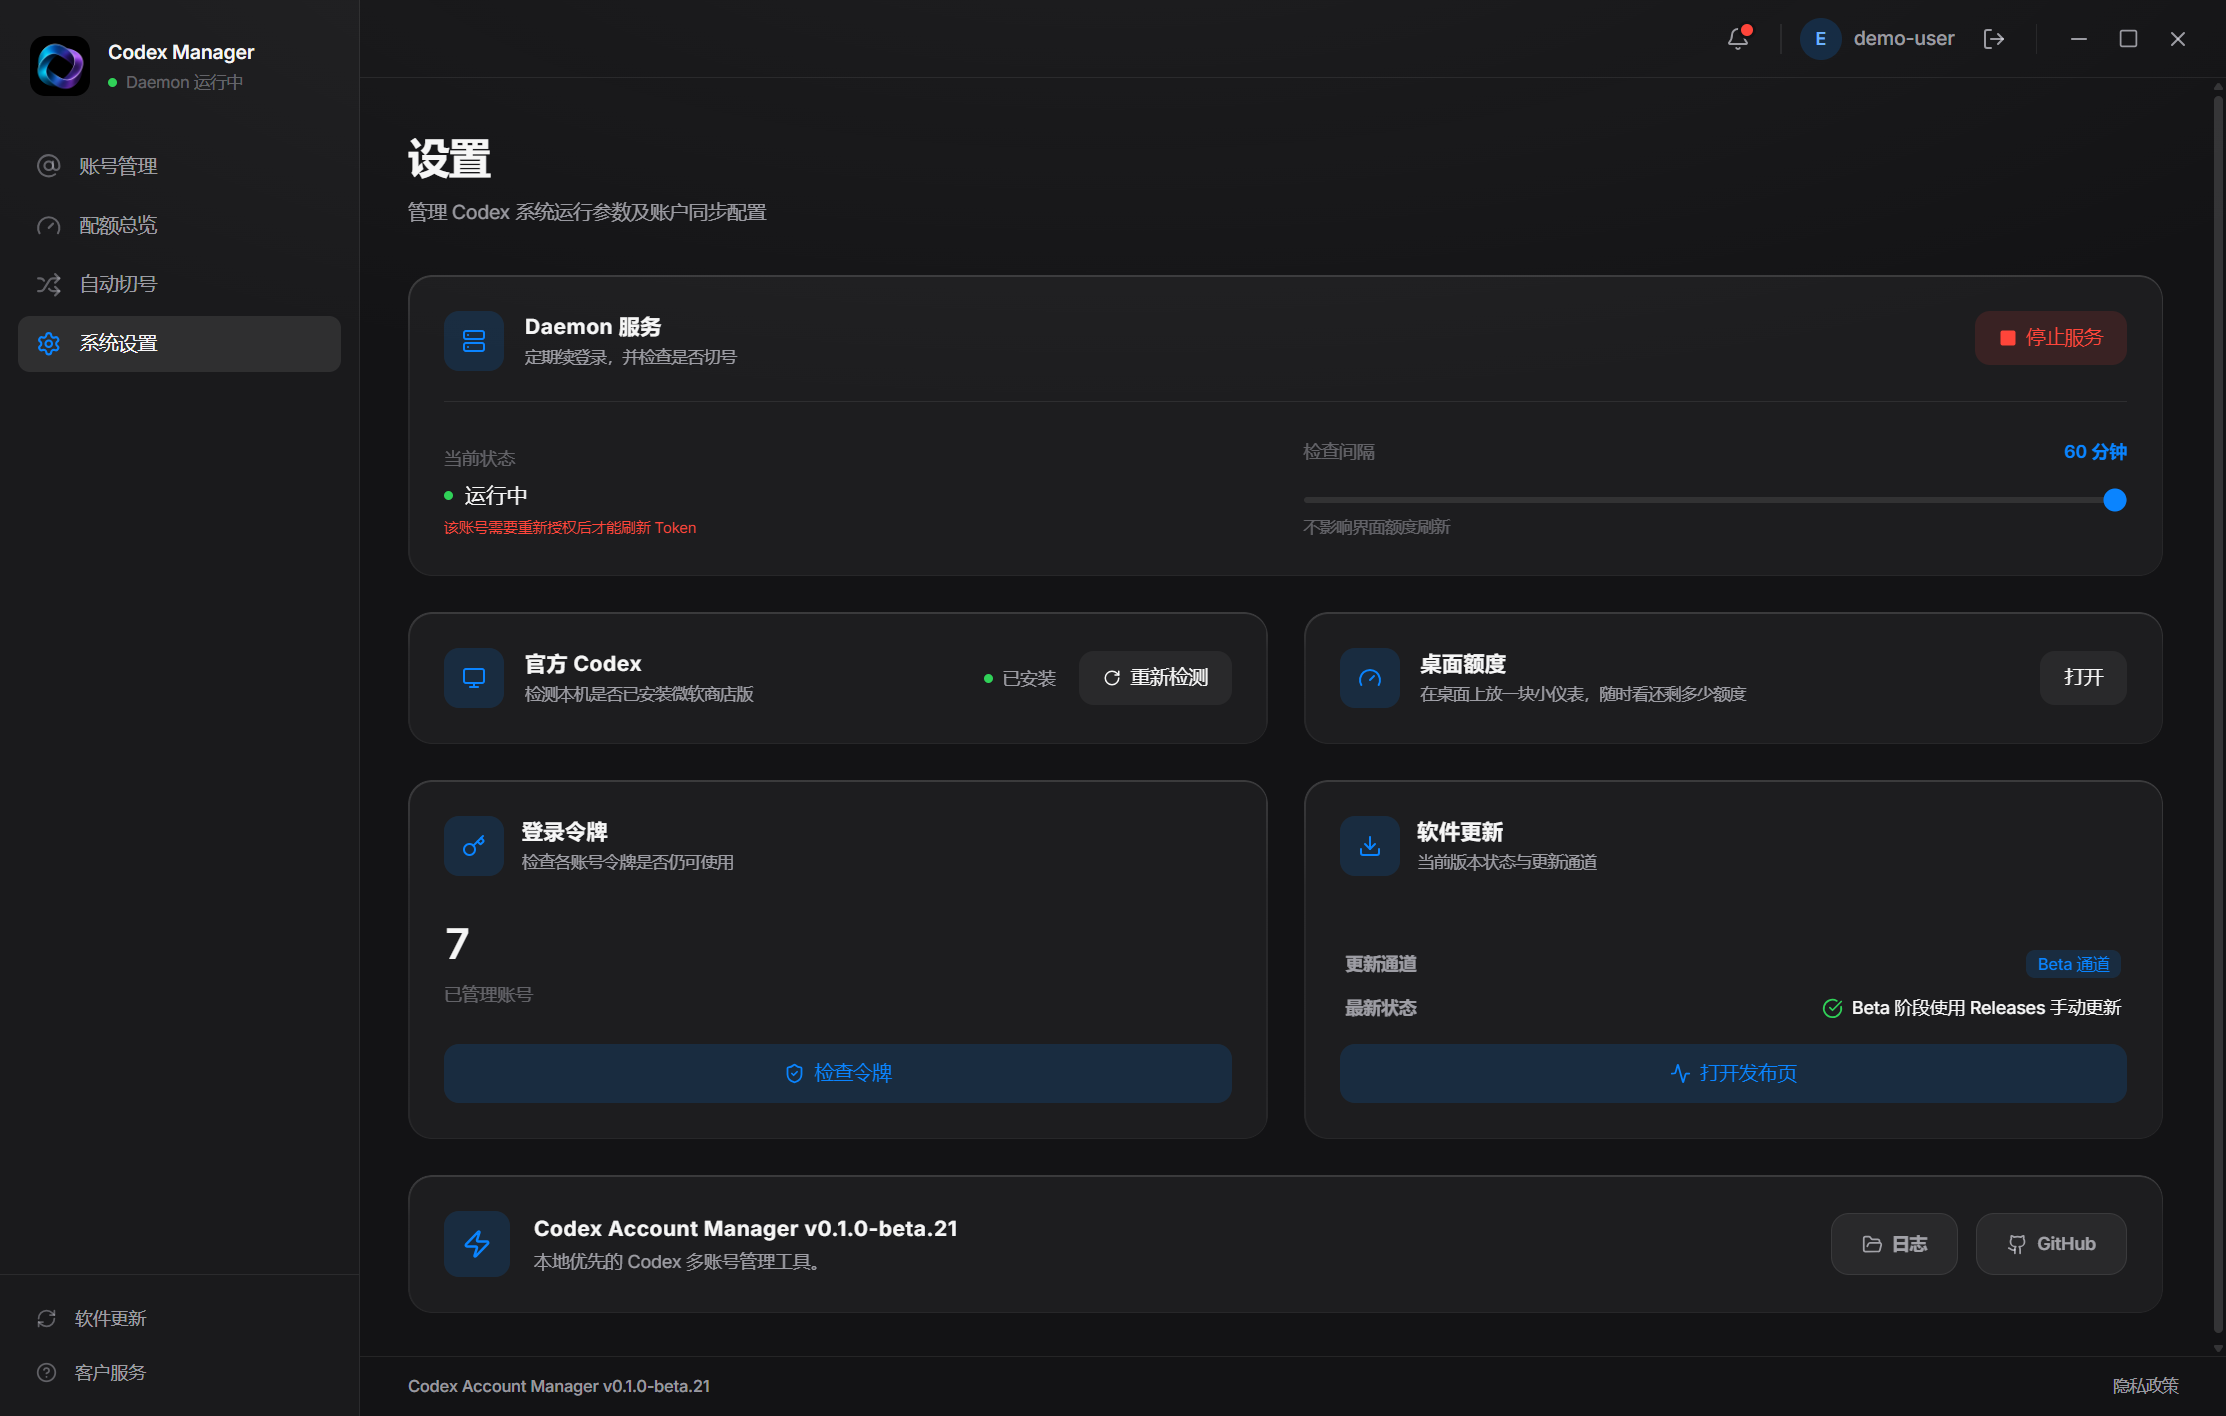
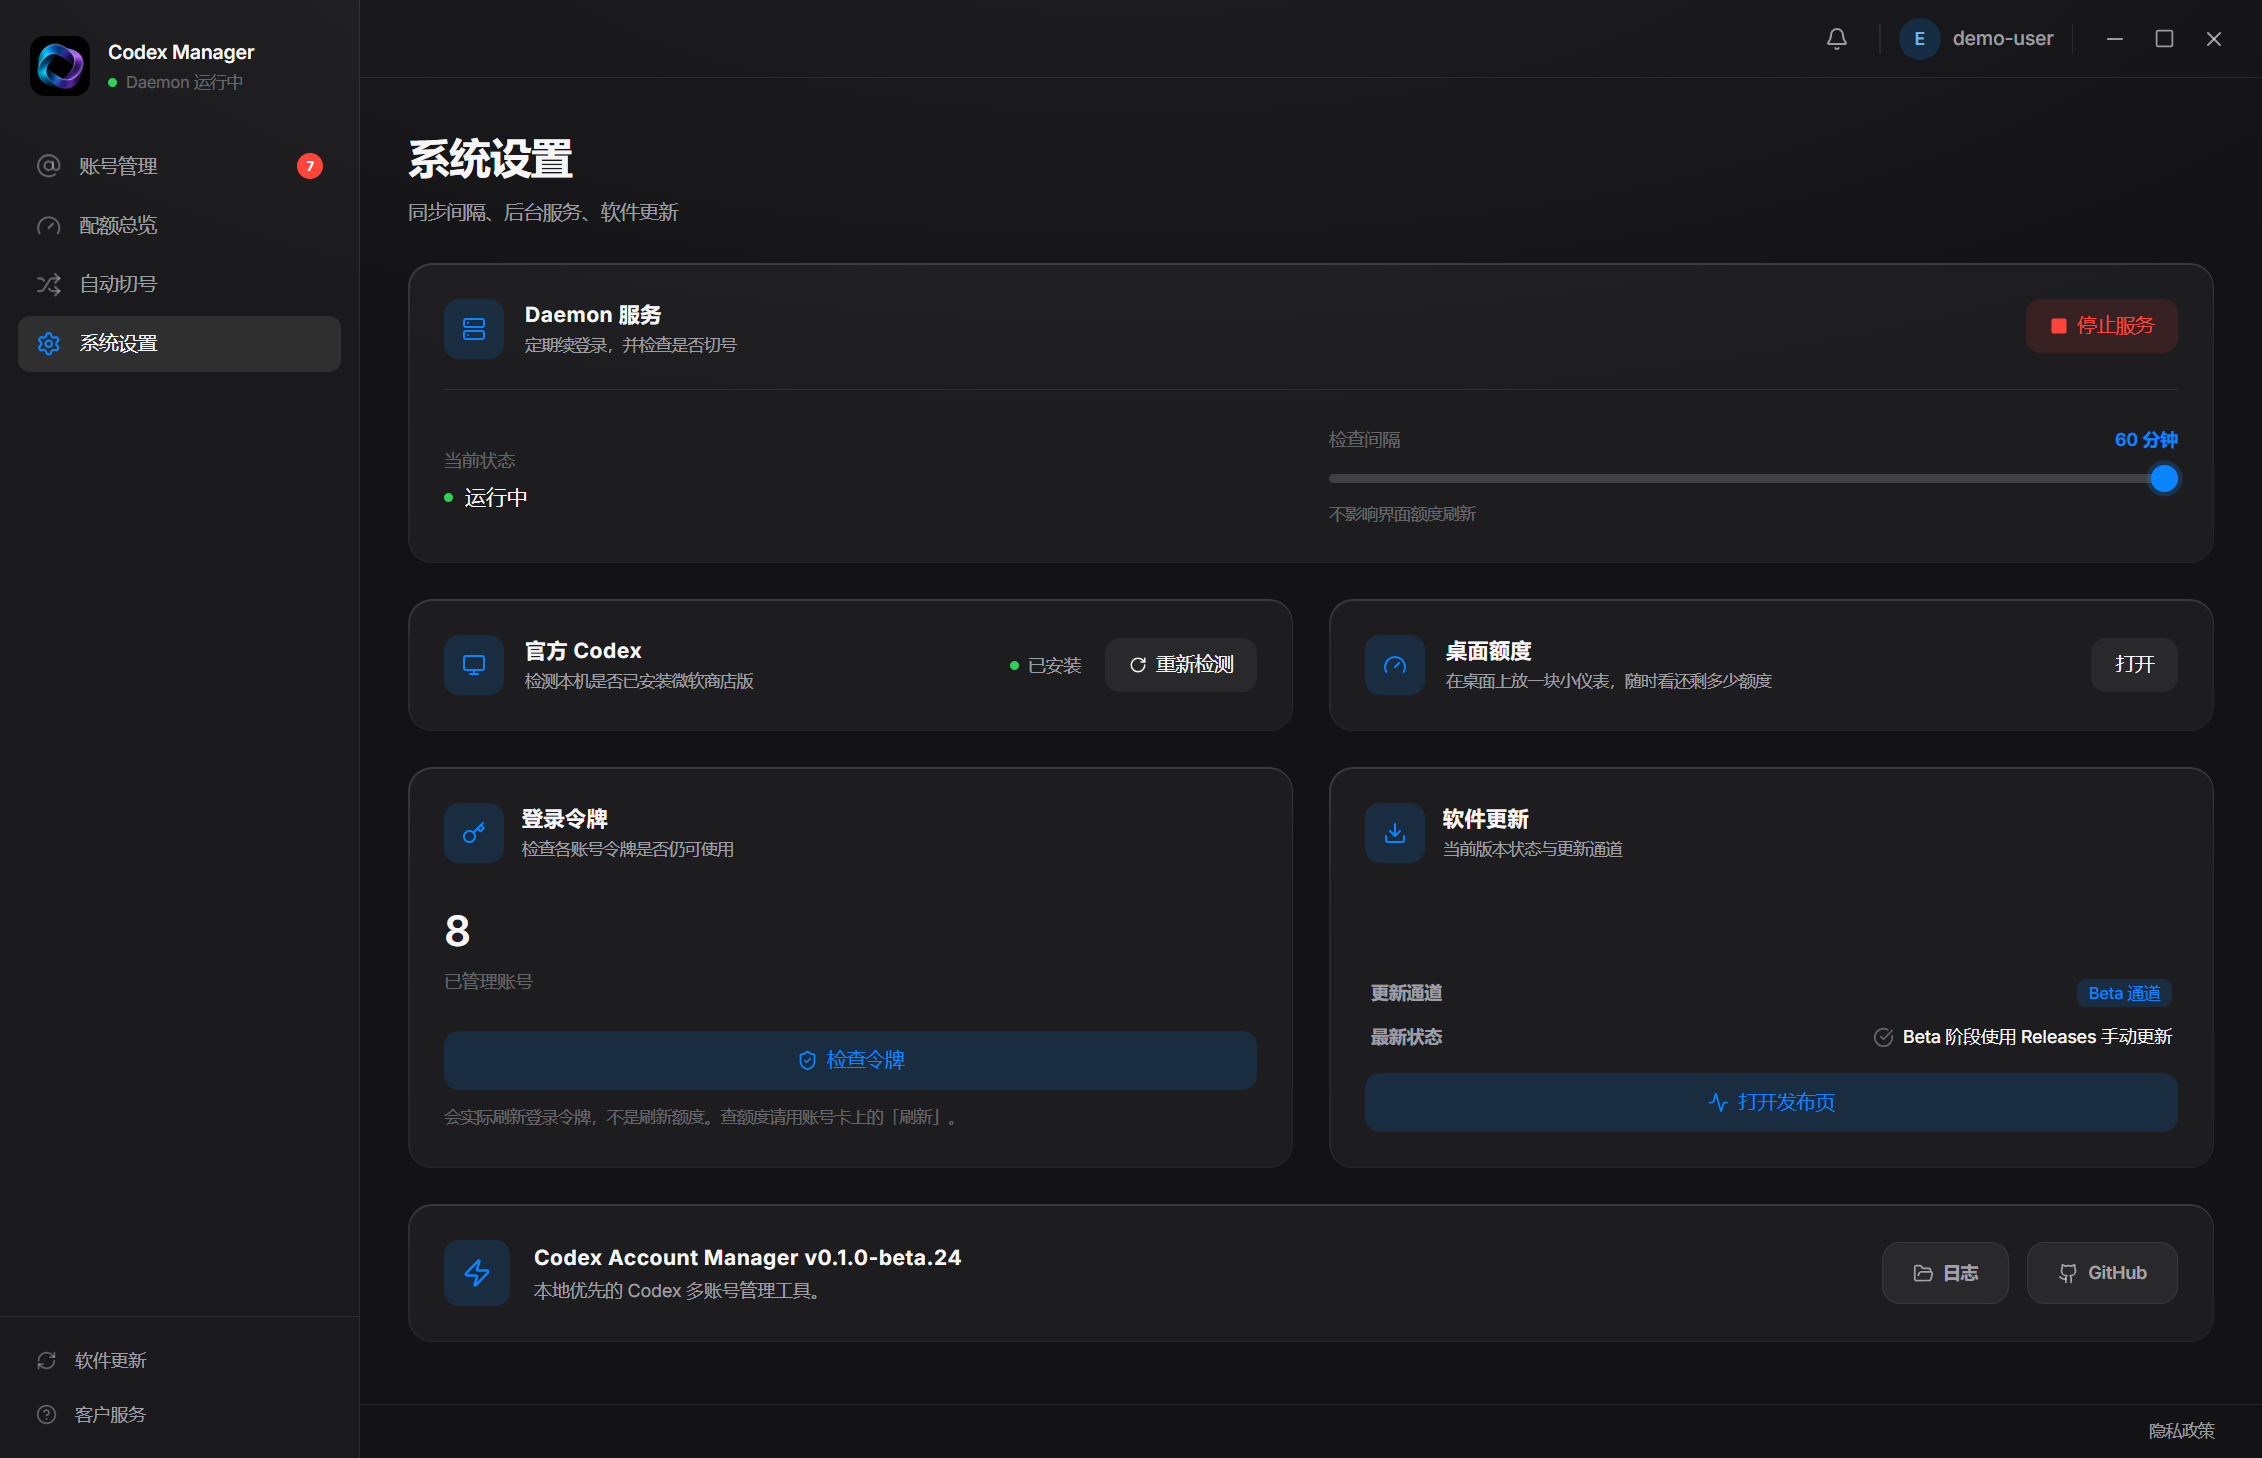
chore: release v0.1.0-beta.24
Ship the UI polish, refresh public screenshots, and bump the beta so after-sales can install a matching build.

diff --git a/src/renderer-react/App.tsx b/src/renderer-react/App.tsx
@@ -1653,17 +1653,17 @@ function DashboardApp() {
                 <div>
                   <h4 className="font-bold text-white mb-1">本轮打磨</h4>
                   <ul className="list-disc pl-4 space-y-1 text-label-2 text-[11px]">
-                    <li>额度检查能区分已封号、需重新授权、额度限流和同步失败。</li>
-                    <li>刷新额度失败时不再提示成功；授权中途卡住可以取消或重试。</li>
-                    <li>配额页和账号页的「需要处理」口径一致；时长和套餐副标题改为中文。</li>
-                    <li>切号前检测官方 Codex 不再卡住界面；悬浮窗高度会记住。</li>
+                    <li>需要处理的账号会在侧栏和账号页标出来；配额卡上也能直接重新授权。</li>
+                    <li>顶栏显示当前 Codex 邮箱，点击即可复制。</li>
+                    <li>空的「更多」菜单已去掉；「立即检查」改成次按钮，避免误切号。</li>
+                    <li>额度检查仍能区分已封号、需重新授权、额度限流和这次没查清。</li>
                   </ul>
                 </div>
                 <div>
                   <h4 className="font-bold text-white mb-1">已验证修复</h4>
                   <ul className="list-disc pl-4 space-y-1 text-label-2 text-[11px]">
+                    <li>刷新额度失败时不再提示成功；授权中途卡住可以取消或重试。</li>
                     <li>添加账号弹窗不再显示误导性的套餐和优先级下拉框。</li>
-                    <li>套餐与轮转优先级继续由 OAuth 授权后的账号状态自动识别。</li>
                     <li>网络失败会显示短中文说明，而不是 Electron 报错原文。</li>
                   </ul>
                 </div>

diff --git a/src/renderer-react/data/mockData.ts b/src/renderer-react/data/mockData.ts
@@ -183,7 +183,7 @@ export const INITIAL_SETTINGS: SystemSettings = {
   weeklyThreshold: 5,
   clientDetected: true,
   updateChannel: 'Beta Channel',
-  version: '0.1.0-beta.21',
+  version: '0.1.0-beta.24',
   latestStatus: 'Up to date',
 };
 

diff --git a/README.md b/README.md
@@ -32,7 +32,7 @@ Windows 窗口：每个账号一张卡片，额度一眼能看完；要换号时
 
 ## 能做什么
 
-- **账号卡片** — 5 小时额度、周额度、重置时间和令牌剩余时间都在卡片上。可以搜索、筛选，也可以添加、刷新、切换、重新授权或删除。
+- **账号卡片** — 5 小时额度、周额度、重置时间和令牌剩余时间都在卡片上。可以搜索、筛选，也可以添加、刷新、切换、重新授权或删除。顶栏会显示当前账号邮箱，点击即可复制。
 - **配额总览** — 所有账号的用量放在一页。读不到额度时显示为未知，不会写成 0。
 - **自动切号** — 本地守护进程按你设的阈值换到下一个可用账号。关掉主窗口也不会停。
 - **关窗进托盘** — 点叉是收到托盘。左键托盘图标可再打开窗口；要退出，用托盘菜单里的「退出」。

diff --git a/README.en.md b/README.en.md
@@ -37,7 +37,7 @@ accounts you saved.
 
 ## What you can do
 
-- **Account cards** — 5-hour quota, weekly quota, reset times, and token lifetime on each card. Search, filter, add, refresh, switch, reauthorize, or delete.
+- **Account cards** — 5-hour quota, weekly quota, reset times, and token lifetime on each card. Search, filter, add, refresh, switch, reauthorize, or delete. The header shows the current mailbox; click it to copy.
 - **Quota overview** — every account on one page. A failed read shows as unknown, never as zero.
 - **Automatic switching** — a local daemon moves to the next usable account at the threshold you set. Closing the main window does not stop it.
 - **Close to tray** — the close button hides the window. Click the tray icon to bring it back; choose **Exit** on the tray menu to quit.

diff --git a/CHANGELOG.md b/CHANGELOG.md
@@ -5,6 +5,14 @@ All notable changes to Codex Account Manager are documented here.
 The project follows [Semantic Versioning](https://semver.org/) once a stable
 release is published.
 
+## [0.1.0-beta.24] - 2026-08-16
+
+- Make pending-account actions obvious: reauthorize on quota cards, hide empty
+  menus, and show a handling count on the sidebar and account page.
+- Show the current Codex mailbox in the header and copy it on click.
+- Demote auto-switch “check now” so it is harder to trigger a real switch by
+  accident, and refresh the public screenshots to match the current UI.
+
 ## [0.1.0-beta.23] - 2026-08-16
 
 - Tell banned, reauthorization, usage-limited, and unclear quota states
